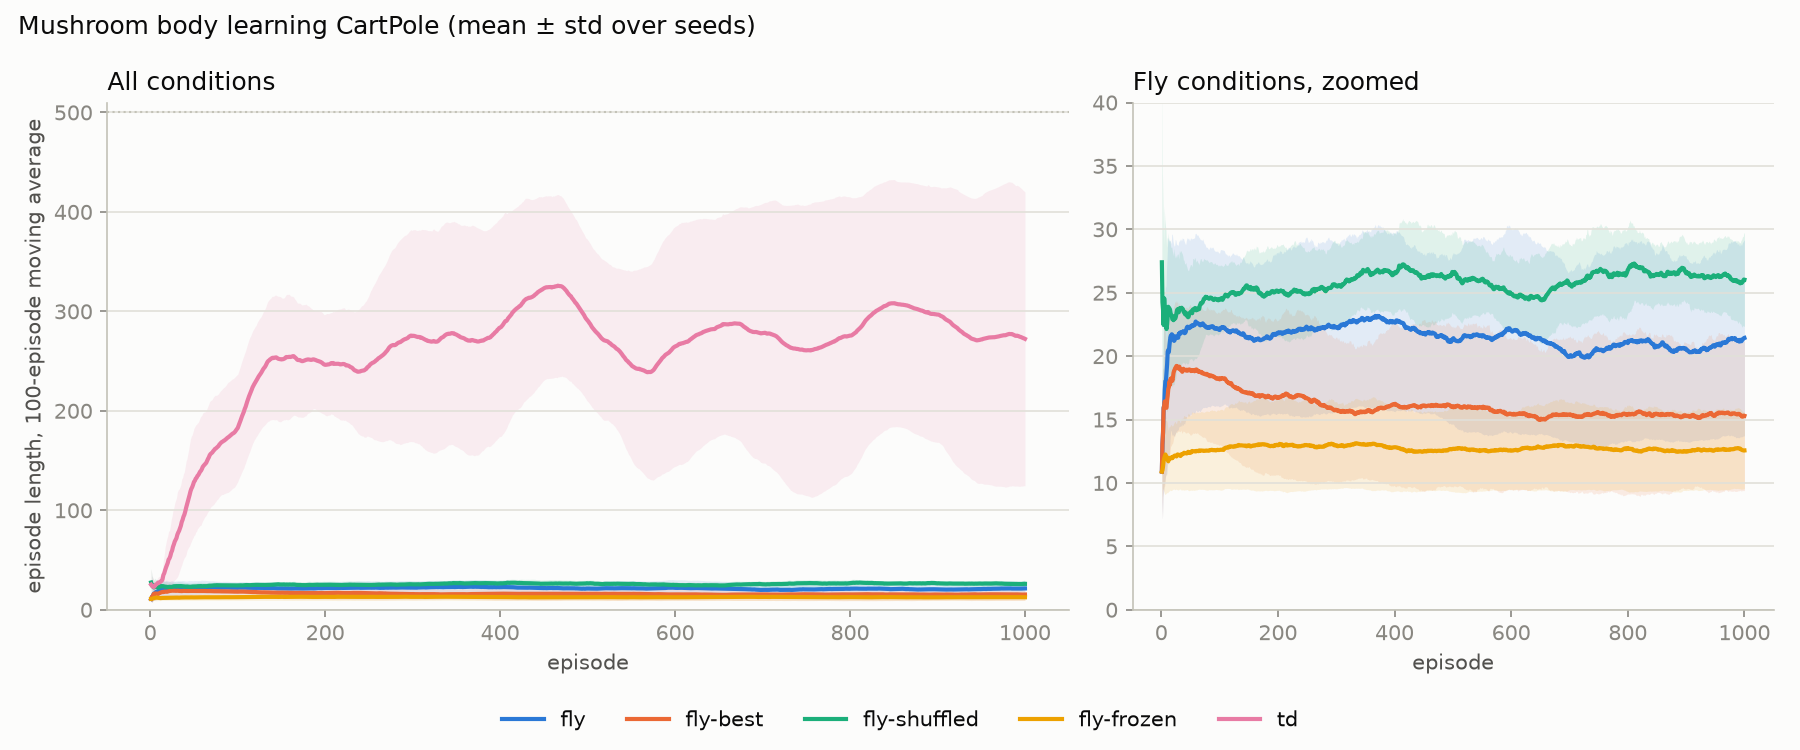
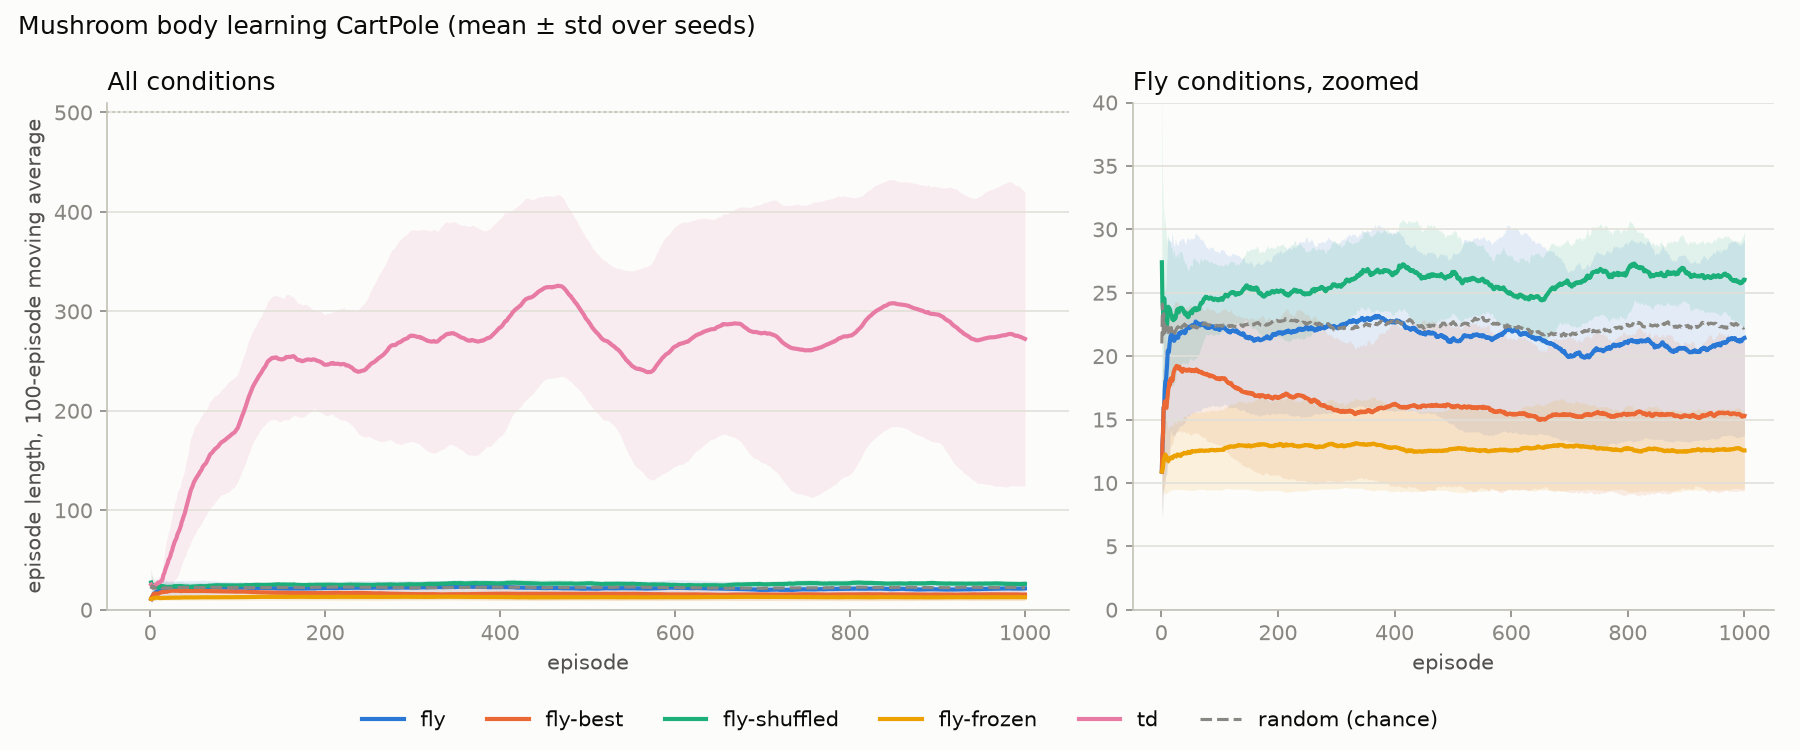
Add a random reference, fix viewer playback speed, qualify README claims

diff --git a/web/app.js b/web/app.js
@@ -1,6 +1,8 @@
 import * as THREE from "three";
 import { OrbitControls } from "three/addons/controls/OrbitControls.js";
 
+import { framesDue } from "./playback.js";
+
 const STEPS_PER_SECOND = 50; // CartPole advances 0.02 s per step
 const HOLD_LAST_FRAME_MS = 1200;
 const COLOURS = {
@@ -184,14 +186,20 @@ function render() {
 }
 
 function tick(now) {
-  const elapsed = now - lastTick;
   const stepMs = 1000 / (STEPS_PER_SECOND * Number(elements.speed.value));
-  if (playing && elapsed >= stepMs) {
-    lastTick = now;
-    if (frameIndex < frames.step.length - 1) {
-      frameIndex += 1;
-      rewardGlow *= 0.85;
-      punishGlow *= 0.92;
+  const due = playing ? framesDue(now - lastTick, stepMs) : 0;
+  if (!playing) lastTick = now;
+  if (due > 0) {
+    lastTick += due * stepMs;
+    const advance = Math.min(due, frames.step.length - 1 - frameIndex);
+    if (advance > 0) {
+      for (let frame = 0; frame < advance; frame += 1) {
+        frameIndex += 1;
+        rewardGlow *= 0.85;
+        punishGlow *= 0.92;
+        if (frames.reward[frameIndex] > 0) rewardGlow = 1;
+        if (frames.punish[frameIndex] > 0) punishGlow = 1;
+      }
       render();
     } else if (heldSince === null) {
       heldSince = now;

diff --git a/web/playback.js b/web/playback.js
@@ -1,0 +1,4 @@
+// Frames owed for the time elapsed, so playback speed holds on any display refresh rate.
+export function framesDue(elapsedMs, stepMs) {
+  return Math.max(0, Math.floor(elapsedMs / stepMs));
+}

diff --git a/src/fly_cartpole/report.py b/src/fly_cartpole/report.py
@@ -13,6 +13,8 @@ from .run import CONDITIONS, run_many, save_lengths
 FINAL_WINDOW = 100
 # Validated categorical order (light surface); summary.md is the table view for the low-contrast slots.
 COLOURS = {"fly": "#2a78d6", "fly-best": "#eb6834", "fly-shuffled": "#1baf7a", "fly-frozen": "#eda100", "td": "#e87ba4"}
+# The random policy is a chance reference, drawn in neutral ink rather than as a sixth series.
+REFERENCE_COLOUR = "#898781"
 CLAIMS = (
     ("learning", "fly", "fly-frozen", "greater"),
     ("wiring contributes", "fly", "fly-shuffled", "greater"),
@@ -54,7 +56,7 @@ def plot_curves(results: dict[str, dict[int, list[int]]], path: Path) -> None:
     # The fly conditions sit near the floor of the overview, so a second panel repeats them on their own scale.
     panels = (
         (overview, tuple(results), (0, 510), "All conditions"),
-        (zoom, tuple(name for name in results if name.startswith("fly")), (0, 40), "Fly conditions, zoomed"),
+        (zoom, tuple(name for name in results if name.startswith("fly") or name == "random"), (0, 40), "Fly conditions, zoomed"),
     )
     for axis, conditions, limits, title in panels:
         axis.set_facecolor("#fcfcfb")
@@ -62,6 +64,9 @@ def plot_curves(results: dict[str, dict[int, list[int]]], path: Path) -> None:
             curves = np.array([moving_average(np.array(lengths)) for lengths in results[condition].values()])
             mean, spread = curves.mean(axis=0), curves.std(axis=0)
             episodes = np.arange(1, curves.shape[1] + 1)
+            if condition == "random":
+                axis.plot(episodes, mean, color=REFERENCE_COLOUR, linewidth=1.5, linestyle="--", label="random (chance)")
+                continue
             axis.fill_between(episodes, mean - spread, mean + spread, color=COLOURS[condition], alpha=0.12, linewidth=0)
             axis.plot(episodes, mean, color=COLOURS[condition], linewidth=2, label=condition)
         axis.set_ylim(*limits)

diff --git a/src/fly_cartpole/run.py b/src/fly_cartpole/run.py
@@ -18,13 +18,14 @@ from .fly_agent import Decision, FlyAgent
 from .mushroom_body import MushroomBody
 from .params import Hyperparameters
 from .paths import CIRCUIT_PATH, RESULTS_DIR
+from .random_agent import RandomAgent
 from .td_agent import TDAgent
 
-CONDITIONS = ("fly", "fly-best", "fly-shuffled", "fly-frozen", "td")
+CONDITIONS = ("fly", "fly-best", "fly-shuffled", "fly-frozen", "td", "random")
 StepCallback = Callable[[int, int, np.ndarray, Decision, float, float, "float | None"], None]
 
 
-def make_agent(condition: str, circuit: Circuit, params: Hyperparameters, seed: int) -> tuple[FlyAgent | TDAgent, DopamineSchedule]:
+def make_agent(condition: str, circuit: Circuit, params: Hyperparameters, seed: int) -> tuple[FlyAgent | TDAgent | RandomAgent, DopamineSchedule]:
     if condition not in CONDITIONS:
         raise ValueError(f"condition must be one of {CONDITIONS}, got {condition!r}")
     rng = np.random.default_rng(seed)
@@ -36,6 +37,8 @@ def make_agent(condition: str, circuit: Circuit, params: Hyperparameters, seed: 
     # Same seed, same glomerulus assignment: conditions are paired per seed.
     encoder = build_encoder(circuit.pn_glomerulus, params.action_fraction, params.tuning_width, seed)
     schedule = DopamineSchedule("best" if condition == "fly-best" else "mean", params.baseline_window, params.reward_per_step)
+    if condition == "random":
+        return RandomAgent(encoder, body.n_kc, rng), schedule
     agent_class = TDAgent if condition == "td" else FlyAgent
     return agent_class(body, encoder, params, rng), schedule
 

diff --git a/src/fly_cartpole/random_agent.py b/src/fly_cartpole/random_agent.py
@@ -1,0 +1,25 @@
+"""Chance reference: presses a uniformly random button and never learns."""
+
+from __future__ import annotations
+
+import numpy as np
+
+from .encoder import Encoder
+from .fly_agent import Decision
+
+
+class RandomAgent:
+    def __init__(self, encoder: Encoder, n_kc: int, rng: np.random.Generator) -> None:
+        self.encoder = encoder
+        self.n_kc = n_kc
+        self.rng = rng
+
+    def reset_episode(self) -> None:
+        pass
+
+    def act(self, state: np.ndarray) -> Decision:
+        action = int(self.rng.integers(2))
+        return Decision(action, (0.0, 0.0), self.encoder.glomeruli(state, action), np.zeros(self.n_kc), np.zeros(0))
+
+    def learn(self, punish: float, reward: float, next_state: np.ndarray, terminated: bool) -> None:
+        pass

diff --git a/tests/test_run.py b/tests/test_run.py
@@ -1,3 +1,4 @@
+import numpy as np
 import pytest
 
 from fly_cartpole.circuit import load_circuit
@@ -40,3 +41,11 @@ def test_run_many_keeps_job_order(circuit_path):
 def test_results_round_trip(tmp_path):
     save_lengths("fly", 2, [10, 20], PARAMS, tmp_path)
     assert load_lengths("fly", tmp_path) == {2: [10, 20]}
+
+
+def test_random_reference_presses_both_buttons_and_never_learns(circuit_path):
+    agent, _ = make_agent("random", load_circuit(circuit_path), PARAMS, seed=0)
+    actions = {agent.act(np.zeros(4)).action for _ in range(50)}
+    agent.learn(punish=1.0, reward=0.0, next_state=np.zeros(4), terminated=True)
+    assert actions == {0, 1}
+    assert "random" in CONDITIONS

diff --git a/tests/test_viewer.py b/tests/test_viewer.py
@@ -1,0 +1,14 @@
+import shutil
+import subprocess
+from pathlib import Path
+
+import pytest
+
+TESTS = Path(__file__).parent / "web"
+
+
+@pytest.mark.skipif(shutil.which("node") is None, reason="node is not installed")
+def test_viewer_playback_logic():
+    result = subprocess.run(["node", "--test", *sorted(str(path) for path in TESTS.glob("*.test.mjs"))],
+                            capture_output=True, text=True)
+    assert result.returncode == 0, result.stdout + result.stderr

diff --git a/README.md b/README.md
@@ -5,11 +5,13 @@ connectome, tries to learn Gymnasium's CartPole with the fly's own dopamine-gate
 plasticity rule. A web viewer replays which mushroom body neurons light up while it
 balances the pole.
 
-**Result: the fly's rule does not learn to balance the pole.** Learning moves the fly
-from a one-sided innate bias up to chance level (about 22 steps, the same as pressing
-random buttons) and stops there. A TD actor-critic trained on the *same* Kenyon cell
-code reaches 272 steps on average, so the Kenyon cell code carries enough information;
-the bottleneck is the learning rule.
+**Result: with the dopamine schedule and encoder used here, the fly's rule does not
+learn to balance the pole.** Learning moves the fly from a one-sided innate bias up to
+chance level (the `random` reference below) and stops there. A TD actor-critic trained on
+the same Kenyon cell layer, fed the state without the action glomeruli, reaches 272 steps
+on average. So the Kenyon cell layer carries enough state information, and the bottleneck
+is the learning rule as set up here: dopamine that arrives only when the pole falls and
+while an episode beats the baseline.
 
 ![Learning curves](results/learning_curves.png)
 
@@ -20,21 +22,23 @@ the bottleneck is the learning rule.
 | `fly-shuffled` (degree-preserving random wiring) | 26.0 ± 3.7 | 0% |
 | `fly-frozen` (no plasticity) | 12.6 ± 3.0 | 0% |
 | `td` (TD actor-critic on the same KC code) | 272.4 ± 147.7 | 29% |
-| random buttons (reference, 1,000 episodes) | 22.6 | 0% |
+| `random` (uniform random buttons, chance reference) | 22.2 ± 1.0 | 0% |
 
 Permutation tests on per-seed final-100 means (full table in [results/summary.md](results/summary.md)):
 
 - `fly` > `fly-frozen`: p = 0.003. The frozen fly's innate preferences push the cart one
   way and it falls in about 13 steps; plasticity removes that bias within the first few dozen
   episodes. That is the whole effect.
-- `fly` > `fly-shuffled`: p = 0.94. The measured wiring does not help; shuffled wiring
-  does slightly better.
+- `fly` > `fly-shuffled`: p = 0.94. There is no evidence that the measured wiring helps;
+  shuffled wiring scored 26.0 (the opposite direction was not tested).
 - `fly` vs `fly-best`: p = 0.07 (two-sided). Rewarding only record-breaking runs is,
   if anything, worse than rewarding runs longer than the recent mean.
 
 Hyperparameters were searched on separate tuning seeds (100-104; 40 fly settings, 6 TD
 settings) and applied unchanged to evaluation seeds 0-9. The best fly setting scored 27
-steps on the tuning seeds. See [results/tuning.json](results/tuning.json).
+steps on the tuning seeds. It sits at the edge of the grid for two parameters (the longest
+trace, 0.95, and the smallest learning rate, 0.02), so the search does not rule out
+settings beyond it. See [results/tuning.json](results/tuning.json).
 
 ## How it works
 
@@ -77,7 +81,7 @@ an eligibility trace long enough to reach the mistake, the whole short episode i
 punished almost equally; with a short trace, only the last hopeless steps are. The TD
 learner has a critic that predicts trouble before the fall and turns every step into a
 signed teaching signal. The fly rule has no such prediction, and no setting in the
-search found a way around that. This matches earlier attempts to put mushroom body
+searched grid found a way around that. This matches earlier attempts to put mushroom body
 plasticity on control tasks (DOOMFLY, FlyPong), while associative choice tasks
 (fly-blackjack) do work.
 
@@ -121,7 +125,9 @@ at the brain surface, so a dot identifies a neuron, not where its synapses compu
 - Rate units, no spikes, no APL, KC→KC or MBON→MBON connections.
 - MBON valence labels follow the compartmental account and were not checked against
   individually characterised MBONs.
-- One dataset, one hemisphere, ten evaluation seeds.
+- One dataset, one hemisphere, ten evaluation seeds. Each seed also draws its own
+  glomerulus-to-variable assignment, shared by every condition of that seed, so the
+  spread across seeds mixes that assignment with learning noise.
 
 ## Credits
 

diff --git a/results/summary.md b/results/summary.md
@@ -9,6 +9,7 @@ Mean length of the final 100 episodes, per seed. 500 is the CartPole-v1 ceiling.
 | fly-shuffled | 26.0 ± 3.7 | 0% | 28, 20, 23, 31, 27, 29, 21, 30, 25, 27 |
 | fly-frozen | 12.6 ± 3.0 | 0% | 9, 9, 10, 15, 13, 18, 10, 17, 14, 11 |
 | td | 272.4 ± 147.7 | 29% | 212, 122, 495, 500, 228, 283, 236, 443, 105, 100 |
+| random | 22.2 ± 1.0 | 0% | 22, 23, 21, 21, 22, 21, 25, 22, 22, 22 |
 
 | claim | comparison | permutation p |
 |---|---|---|
